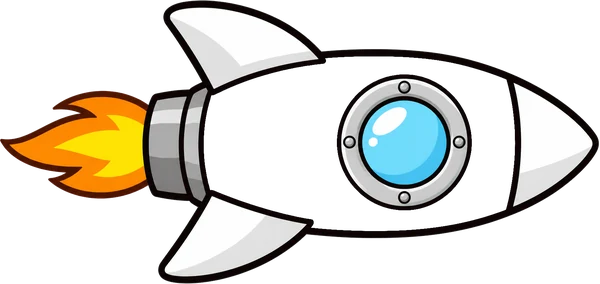
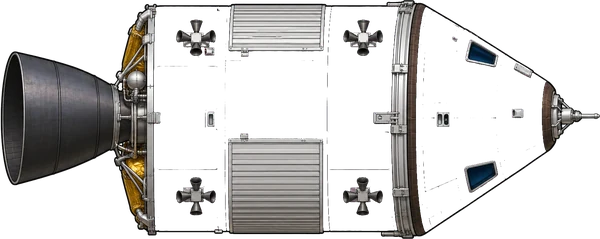
Update 23.11.2026 12:52

diff --git a/online/rallye-trainer.html b/online/rallye-trainer.html
@@ -141,6 +141,13 @@
   @media (max-width:520px){ .bahn.bildHind .hindernis{--hb:160px;font-size:22px} }
   @media (max-width:400px){ .bahn.bildHind .hindernis{--hb:142px;font-size:21px} }
   /* Pferde: die Tafel im Springhindernis ist schmaler – das Hindernis etwas größer, damit lange Aufgaben lesbar bleiben */
+  /* Weltraum-Reise: das Ziel steht rechts im Hintergrund und wächst mit jeder Runde (--zg = Anteil der Bahnhöhe) */
+  .zielobj{position:absolute;z-index:0;pointer-events:none;height:calc(var(--zg) * 100%);width:auto;max-width:70%;object-fit:contain;
+    top:50%;right:4%;transform:translateY(-50%);transition:height 1.2s ease;filter:drop-shadow(0 0 10px rgba(0,0,0,.6))}
+  .zielobj.licht{mix-blend-mode:screen;filter:none}
+  .zielobj.zurueck{right:auto;left:-6%;opacity:.9}
+  .bahn.rakete .fahrzeug{width:116px;height:66px;bottom:64px}
+  @media (max-width:520px){ .bahn.rakete .fahrzeug{width:96px;height:56px} }
   .bahn.pferd.bildHind .hindernis{--hb:256px}
   @media (max-width:520px){ .bahn.pferd.bildHind .hindernis{--hb:216px} }
   @media (max-width:400px){ .bahn.pferd.bildHind .hindernis{--hb:170px} }
@@ -444,7 +451,8 @@ function streckeOffen(n){ return n<5 ? true : f1Offen(); }
 const STUFEN=[0,20,40,60,80,100,120,140,160,180];
 const AUTO_NAMEN  =["Käfer","Stadtflitzer","Familienbus","Geländewagen","Pick-up","Sportwagen","Cabrio","Rallye-Wagen","Formel-Wagen","Super-Formel"];
 const PFERD_NAMEN =["Pony","Fohlen","Reitpferd","Haflinger","Pferd mit Decke","Springpferd","Rennpferd","Ritterpferd","Einhorn","Pegasus"];
-const RAKETE_NAMEN=["Mini-Rakete","Forschungsschiff","Raumgleiter","Space-Shuttle","Frachter","Sternenjäger","Rennkapsel","Fliegende Untertasse","Sternenkreuzer","Komet"];
+// 23.11.2026 (mit der Lehrkraft): echte Raumschiffe in der Garage, eigene Entwürfe für Profi/Legende – keine Film-Schiffe
+const RAKETE_NAMEN=["Apollo","Crew Dragon","Cygnus","Orion","Mondfähre","Dream Chaser","Starship","Space Shuttle","Ufo","Expeditionsschiff"];
 const FAHRZEUGE=[];
 STUFEN.forEach((ab,i)=>{
   FAHRZEUGE.push({id:"a"+(i+1), welt:"auto",   name:AUTO_NAMEN[i],   ab:ab});
@@ -460,7 +468,7 @@ const PROFI_STUFEN=[20,50,90,130,180];
 // Limousine zuerst (der Monster-Truck ist spannender und kommt danach), Mondauto zu Profi, Raketenauto und Schwebeauto zu Legende.
 const AUTO_PROFI  =["Limousine","Monster-Truck","Renn-Laster","Dünen-Buggy","Mondauto"];
 const PFERD_PROFI =["Zebra-Pferd","Feuerpferd","Regenbogen-Einhorn","Drachenpferd","Sternen-Pegasus"];
-const RAKETE_PROFI=["Mondfähre","Weltraum-Wal","Drachenschiff","Ringschiff","Galaxie-Kreuzer"];
+const RAKETE_PROFI=["Pfeilgleiter","Mantaschiff","Hexa-Frachter","Doppelfrachter","Ringschiff"];
 PROFI_STUFEN.forEach((pab,i)=>{
   FAHRZEUGE.push({id:"a"+(i+11), welt:"auto",   name:AUTO_PROFI[i],   ab:GARAGE_VOLL, pab:pab});
   FAHRZEUGE.push({id:"p"+(i+11), welt:"pferd",  name:PFERD_PROFI[i],  ab:GARAGE_VOLL, pab:pab});
@@ -471,7 +479,7 @@ PROFI_STUFEN.forEach((pab,i)=>{
 const LEGENDE_STUFEN=[220,260,300,350,400];
 const AUTO_LEGENDE  =["Schwebeauto","Amphibienauto","Flügelauto","Raketenauto","Legenden-Bolide"];
 const PFERD_LEGENDE =["Wolkenpferd","Eispferd","Ritter-Einhorn","Blitzpferd","Königspferd"];
-const RAKETE_LEGENDE=["Sternen-Segler","Asteroiden-Bohrer","Raumstation","Phönix-Schiff","Legenden-Kreuzer"];
+const RAKETE_LEGENDE=["Sonnensegler","Kometenjäger","Generationsschiff","Kristallschiff","Legenden-Kreuzer"];
 LEGENDE_STUFEN.forEach((pab,i)=>{
   FAHRZEUGE.push({id:"a"+(i+16), welt:"auto",   name:AUTO_LEGENDE[i],   ab:GARAGE_VOLL, pab:pab, legende:true});
   FAHRZEUGE.push({id:"p"+(i+16), welt:"pferd",  name:PFERD_LEGENDE[i],  ab:GARAGE_VOLL, pab:pab, legende:true});
@@ -938,7 +946,8 @@ function mitTuning(svg, id, tune, gold){
 // ===== Gemalte Modelle (vom Lehrer gemalt, Teil zum Umfärben in Magenta) =====
 // bilder/rallye/<id>_s.webp = Schatten des Lack-Teils in Grau (128 = genau die gewählte Farbe), <id>_r.webp = alles andere.
 // Die Farbe (auch Verläufe wie Gold oder Regenbogen) liegt unter den Schatten, Mischung „hard-light".
-const BILD_FZ={r1:1};
+const BILD_FZ={};
+for(let i=1;i<=16;i++) BILD_FZ["r"+i]=1;      // 23.11.2026: Raketen 1–16 gemalt (17–20 kommen noch)
 for(let i=1;i<=20;i++) BILD_FZ["p"+i]=1;                 // alle 20 Pferde realistisch (22.11.2026) (Pony, Reitpferd, Einhorn, Pegasus)
 for(let i=1;i<=20;i++) BILD_FZ["a"+i]=1;      // 22.11.2026: alle 20 Autos gemalt (realistischer Stil)
 let bildNr=0;
@@ -1070,9 +1079,40 @@ const BG_BILD={ auto1:{strasse:0.2841, seite:1.8417}, pferd1:{strasse:0.3224, se
 // Gemalte Hindernisse: seite = Höhe/Breite, tafel = leere Tafel (links, oben, rechts, unten als Anteil) – dort steht die Aufgabe
 const HIND_BILD={ auto:{seite:0.49, tafel:[0.124,0.095,0.877,0.57]}, pferd:{seite:0.5, tafel:[0.236,0.274,0.765,0.719]} };
 function bgFuer(){ if(BG_BILD[welt+strecke]) return welt+strecke; for(let n=1;n<=5;n++) if(BG_BILD[welt+n]) return welt+n; return null; }
+
+//// ===== Weltraum-Reise (23.11.2026, Idee der Lehrkraft) =====
+// Jedes neue Raumschiff = ein neues Reiseziel: von der Sonne an allen Planeten vorbei bis zur Andromeda-Galaxie.
+// Gezählt werden nur Runden im Weltraum. Das nächste Ziel wird mit jeder Runde größer, beim neuen Schiff ist man da.
+// Bilder: bilder/rallye/ziel_<id>.webp (licht = auf Schwarz, wird mit „screen" eingeblendet), Himmel bg_raum1–3.webp
+const ZIELE=[
+  {id:"sonne",name:"die Sonne",licht:1},{id:"merkur",name:"Merkur"},{id:"venus",name:"Venus"},{id:"erde_mond",name:"Erde und Mond"},
+  {id:"mars",name:"Mars"},{id:"asteroiden",name:"der Asteroidengürtel"},{id:"jupiter",name:"Jupiter"},{id:"saturn",name:"Saturn"},
+  {id:"uranus",name:"Uranus"},{id:"neptun",name:"Neptun"},{id:"pluto_charon",name:"Pluto und Charon"},{id:"kuiperguertel",name:"der Kuipergürtel"},
+  {id:"heliopause",name:"der Rand des Sonnensystems",licht:1},{id:"oortsche_wolke",name:"die Oortsche Wolke",licht:1},
+  {id:"alpha_centauri",name:"Alpha Centauri",licht:1},{id:"orionnebel",name:"der Orionnebel",licht:1},{id:"plejaden",name:"die Plejaden",licht:1},
+  {id:"schwarzes_loch",name:"ein Schwarzes Loch",licht:1},{id:"milchstrasse",name:"die Milchstraße",licht:1},{id:"andromeda",name:"die Andromeda-Galaxie",licht:1}];
+const ZIEL_DA={saturn:1, orionnebel:1};                       // schon gemalt
+const HIMMEL={raum1:6.0};                                      // seite = Kachelbreite / Höhe; raum1 Ziele 1–5, raum2 6–12, raum3 13–20
+// Wo ist die Reise? i = Nummer des Raumschiffs (0–19), t = 0…1 Weg zum nächsten Ziel
+function reiseStand(){
+  const L=FAHRZEUGE.filter(f=>f.welt==="rakete"), g=weltRunden("rakete"), p=weltProfi("rakete");
+  let i=0; L.forEach((f,k)=>{ if(istOffen(f,g,p)) i=k; });
+  const cur=L[i], nxt=L[i+1]; let t=1;
+  if(nxt) t = !nxt.pab ? (g-cur.ab)/(nxt.ab-cur.ab) : g<GARAGE_VOLL ? 0 : (p-(cur.pab||0))/(nxt.pab-(cur.pab||0));
+  return {i, t:Math.max(0,Math.min(1,t)), ziel:ZIELE[Math.min(i+1,ZIELE.length-1)], hier:ZIELE[i], ende:!nxt};
+}
+function himmelFuer(i){ const n = i<5 ? 1 : i<12 ? 2 : 3; for(const k of ["raum"+n,"raum1","raum2","raum3"]) if(HIMMEL[k]) return k; return null; }
+function zielHTML(){
+  const r=reiseStand(); let h="";
+  const bild=(z,cls,gr)=>ZIEL_DA[z.id] ? `<img class="zielobj ${cls}${z.licht?" licht":""}" src="bilder/rallye/ziel_${z.id}.webp" alt="" style="--zg:${gr.toFixed(3)}">` : "";
+  if(r.i===0 && !r.ende) h+=bild(ZIELE[0],"zurueck",1.1-0.8*r.t);   // die Sonne bleibt hinten zurück
+  h+=bild(r.ende?r.hier:r.ziel,"vorn",r.ende?1:0.28+0.67*r.t);      // das nächste Ziel kommt näher
+  return h;
+}
 const BAND_TEMPO={oben:26, strasse:120};      // Pixel pro Sekunde: Kulisse langsam, Straße schnell (Tiefe)
 function baendStellen(box){
-  const k=bgFuer(); if(!k) return; const H=box.clientHeight||200, w=BG_BILD[k].seite*H;
+  const hm = welt==="rakete" ? himmelFuer(reiseStand().i) : null;
+  const k=bgFuer(); if(!k && !hm) return; const H=box.clientHeight||200, w=(hm?HIMMEL[hm]:BG_BILD[k].seite)*H;
   box.querySelectorAll(".bgBand").forEach(b=>{ b.style.setProperty("--k", w.toFixed(1)+"px");
     b.style.animationDuration=(w/BAND_TEMPO[b.dataset.e]).toFixed(2)+"s"; });
 }
@@ -1084,6 +1124,14 @@ function aufTafel(h){
   while(h.scrollWidth>h.clientWidth+1 && fs>12){ fs-=1; h.style.fontSize=fs+"px"; }
 }
 function bahnHTML(){
+  const hm = welt==="rakete" ? himmelFuer(reiseStand().i) : null;
+  if(hm){   // Weltraum: Sternenhimmel über die ganze Höhe, davor das Reiseziel
+    return `<div class="bgOben" style="bottom:0"><div class="bgBand" data-e="oben" style="background-image:url(bilder/rallye/bg_${hm}.webp)"></div></div>
+      ${zielHTML()}
+      <div class="fahrzeug fz" style="left:6%">${mitTuning(fahrzeugSVG(fahrzeugId,farbe), fahrzeugId, tune(), meinGold())}${boost()?`<span class="flamme">${flammeIcon()}</span>`:""}</div>
+      <div class="hindernis hide hind"></div>
+      <div class="ziel zielflagge">🏁</div>`;
+  }
   const bg=bgFuer();
   if(bg){
     const p=(BG_BILD[bg].strasse*100).toFixed(2), q="bilder/rallye/bg_"+bg;
@@ -1217,7 +1265,8 @@ function zeigeTitelUndProfi(){
   }
   if(wg<GARAGE_VOLL){
     const nd=naechstesDing(wg,wp);
-    $("profiZeile").innerHTML = nd ? `<div class="info" style="margin:-2px 0 12px">${weltName()}: <b>${wg}</b> Runde${wg===1?"":"n"} in dieser Welt · noch <b>${nd.fehlt}</b> bis <b>${nd.x.name}</b></div>` : "";
+    const reise = welt==="rakete" ? ` · 🪐 nächstes Reiseziel: <b>${reiseStand().ziel.name}</b>` : "";
+    $("profiZeile").innerHTML = nd ? `<div class="info" style="margin:-2px 0 12px">${weltName()}: <b>${wg}</b> Runde${wg===1?"":"n"} in dieser Welt · noch <b>${nd.fehlt}</b> bis <b>${nd.x.name}</b>${reise}</div>` : "";
     return;
   }
   const nd=naechstesDing(wg,wp);
@@ -1484,7 +1533,7 @@ function rundeFertig(){
   sitzungRunden++;
   sauberSerie = rundeOhneFehler ? sauberSerie+1 : 0;
   const vorher=gesamtRunden(), pVorher=profiRunden(), f1Vorher=f1Offen(), levelVorher=levelFuer(strecke);
-  const wVorher=weltRunden(), wpVorher=weltProfi();
+  const wVorher=weltRunden(), wpVorher=weltProfi(), reiseVorher=reiseStand().i;
   const tVorher=titelStand(vorher,pVorher);
   let sternVor=null; try{ sternVor=Sterne.stand(tankRows()); }catch(e){}
   speichere(dauer);
@@ -1494,6 +1543,7 @@ function rundeFertig(){
   $("rueck").style.color="var(--gold)";
   $("rueck").textContent=`🏁 Runde ${rundeNr} geschafft – ${dauer} s`+(wpNachher>wpVorher?` · ⭐ Profi-Runde ${wpNachher}`:"");
   const neuFrei = freigeschaltetZwischen({g:vorher,p:pVorher,wg:wVorher,wp:wpVorher}, {g:nachher,p:pNachher,wg:wNachher,wp:wpNachher});
+  if(welt==="rakete" && reiseStand().i>reiseVorher) neuFrei.unshift(`🪐 Angekommen: ${reiseStand().hier.name}!`);
   if(!f1Vorher && f1Offen()) neuFrei.push("🏆 Strecke Formel 1");
   if(levelFuer(strecke)>levelVorher) neuFrei.push(`⬆ ${st(strecke).name}: Level ${levelFuer(strecke)+1} – jetzt wird es schwerer`);
   if(wVorher<GARAGE_VOLL && wNachher>=GARAGE_VOLL) neuFrei.push(`⭐ Die Profi-Garage ${weltName()} ist offen!`);
